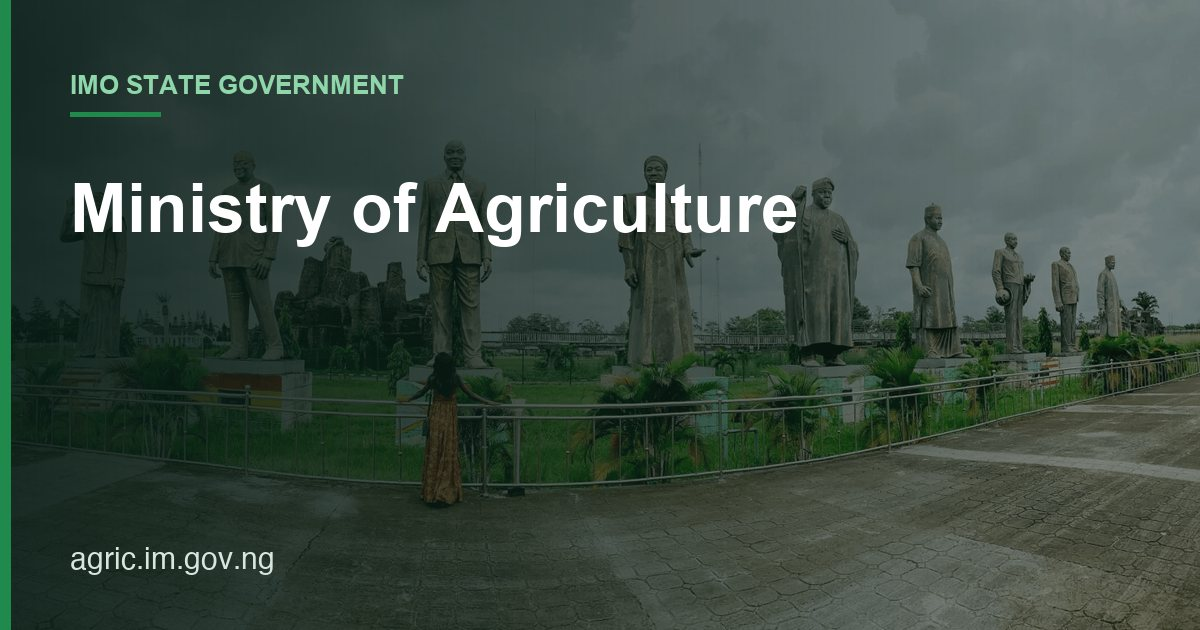
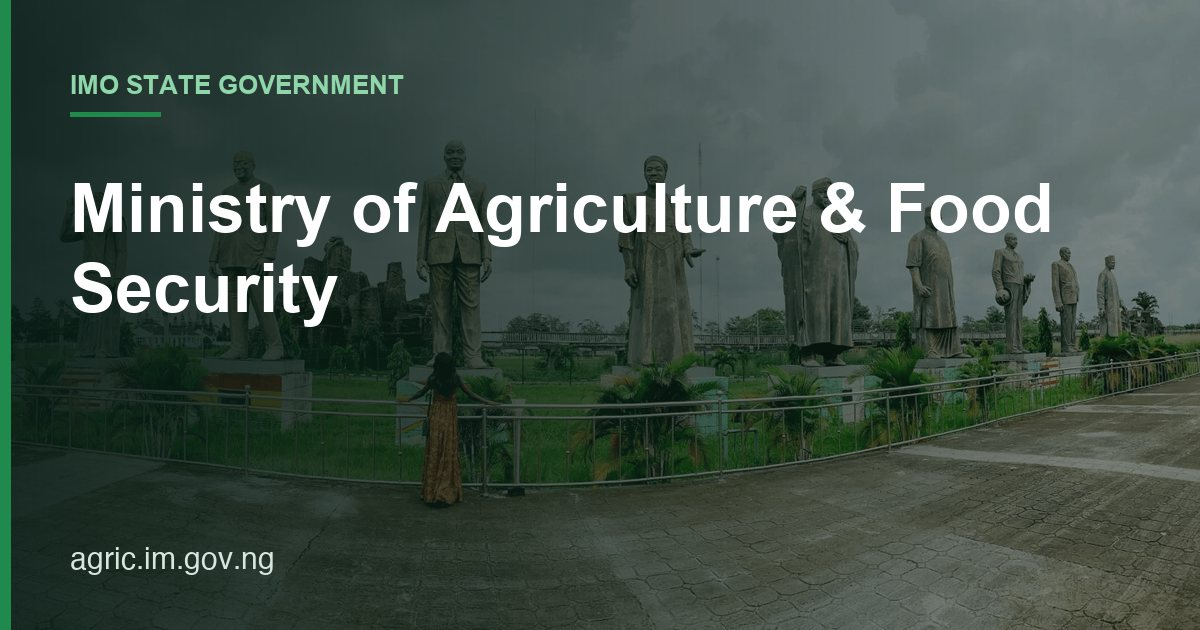
SEO sprint 3: titles and descriptions from real service content; correct official ministry name
- Home/about/services metadata written from the site's own content and services
- Use the official ministry names shown on each site; regenerate OG image
- Shorter page titles so keywords come first

Changed region(s): [[0.0617, 0.3921, 0.2775, 0.5127], [0.6783, 0.2714, 0.8942, 0.3921]]

diff --git a/src/lib/seo.ts b/src/lib/seo.ts
@@ -2,9 +2,9 @@ import type { Metadata } from "next";
 
 // Verified production domain (Vercel project domain). Override per environment if needed.
 export const SITE_URL = (process.env.NEXT_PUBLIC_SITE_URL || "https://agric.im.gov.ng").replace(/\/$/, "");
-export const SITE_NAME = "Ministry of Agriculture";
+export const SITE_NAME = "Ministry of Agriculture and Food Security";
 export const DEFAULT_DESCRIPTION =
-  "Official website of the Ministry of Agriculture, Imo State Government: services, departments, projects, news and events.";
+  "Official website of the Ministry of Agriculture and Food Security, Imo State Government: services, departments, projects, news and events.";
 export const OG_IMAGE_PATH = "/og-image.jpg";
 
 type Title = NonNullable<Metadata["title"]>;

diff --git a/src/app/page.tsx b/src/app/page.tsx
@@ -12,8 +12,8 @@ import { Project } from "../../lib/types";
 import { pageMetadata } from "@/lib/seo";
 
 export const metadata = pageMetadata({
-  title: { absolute: "Ministry of Agriculture | Imo State Government" },
-  description: "Official website of the Ministry of Agriculture, Imo State Government: services, departments, projects, news and events.",
+  title: { absolute: "Imo State Ministry of Agriculture and Food Security" },
+  description: "Imo State Ministry of Agriculture and Food Security: farmer registration, extension services, subsidies and grants, veterinary services and farmland allocation.",
   path: "/",
 });
 

diff --git a/src/app/services/page.tsx b/src/app/services/page.tsx
@@ -5,8 +5,8 @@ import ServicesSection from "./ServicesSection";
 import { pageMetadata } from "@/lib/seo";
 
 export const metadata = pageMetadata({
-  title: "Services",
-  description: "Services offered by the Ministry of Agriculture of the Imo State Government.",
+  title: "Farmer Registration and Subsidies",
+  description: "Agricultural extension, grant and subsidy applications, farmer registration, farmland allocation, veterinary services and agro-processing support in Imo State.",
   path: "/services",
 });
 

diff --git a/src/app/contact-us/page.tsx b/src/app/contact-us/page.tsx
@@ -9,7 +9,7 @@ import { pageMetadata } from "@/lib/seo";
 
 export const metadata = pageMetadata({
   title: "Contact Us",
-  description: "Contact the Ministry of Agriculture, Imo State Government: office location and ways to reach the ministry.",
+  description: "Contact the Ministry of Agriculture and Food Security, Imo State Government: office location and ways to reach the ministry.",
   path: "/contact-us",
 });
 

diff --git a/src/app/about-us/page.tsx b/src/app/about-us/page.tsx
@@ -11,7 +11,7 @@ import { pageMetadata } from "@/lib/seo";
 
 export const metadata = pageMetadata({
   title: "About Us",
-  description: "About the Ministry of Agriculture of the Imo State Government: who we are and what we do.",
+  description: "Mission, vision and objectives of the Imo State Ministry of Agriculture and Food Security: food security, farmer empowerment and agribusiness.",
   path: "/about-us",
 });
 

diff --git a/src/app/data/layout.tsx b/src/app/data/layout.tsx
@@ -2,7 +2,7 @@ import { pageMetadata } from "@/lib/seo";
 
 export const metadata = pageMetadata({
   title: "Data",
-  description: "Data and statistics published by the Ministry of Agriculture, Imo State Government.",
+  description: "Data and statistics published by the Ministry of Agriculture and Food Security, Imo State Government.",
   path: "/data",
 });
 

diff --git a/src/app/news/page.tsx b/src/app/news/page.tsx
@@ -8,7 +8,7 @@ import { pageMetadata } from "@/lib/seo";
 
 export const metadata = pageMetadata({
   title: "News",
-  description: "Latest news, announcements and updates from the Ministry of Agriculture, Imo State.",
+  description: "Latest news, announcements and updates from the Ministry of Agriculture and Food Security, Imo State.",
   path: "/news",
 });
 

diff --git a/src/app/departments/page.tsx b/src/app/departments/page.tsx
@@ -6,7 +6,7 @@ import { pageMetadata } from "@/lib/seo";
 
 export const metadata = pageMetadata({
   title: "Departments",
-  description: "Departments and units of the Ministry of Agriculture, Imo State Government.",
+  description: "Departments and units of the Ministry of Agriculture and Food Security, Imo State Government.",
   path: "/departments",
 });
 

diff --git a/src/app/media/page.tsx b/src/app/media/page.tsx
@@ -9,7 +9,7 @@ import { pageMetadata } from "@/lib/seo";
 
 export const metadata = pageMetadata({
   title: "Media Gallery",
-  description: "Photo and media gallery of the Ministry of Agriculture, Imo State Government.",
+  description: "Photo and media gallery of the Ministry of Agriculture and Food Security, Imo State Government.",
   path: "/media",
 });
 

diff --git a/src/app/projects/page.tsx b/src/app/projects/page.tsx
@@ -8,7 +8,7 @@ import { pageMetadata } from "@/lib/seo";
 
 export const metadata = pageMetadata({
   title: "Projects",
-  description: "Projects and programmes of the Ministry of Agriculture, Imo State Government.",
+  description: "Projects and programmes of the Ministry of Agriculture and Food Security, Imo State Government.",
   path: "/projects",
 });
 

diff --git a/src/app/events/page.tsx b/src/app/events/page.tsx
@@ -10,7 +10,7 @@ import { pageMetadata } from "@/lib/seo";
 
 export const metadata = pageMetadata({
   title: "Events",
-  description: "Events organised by the Ministry of Agriculture, Imo State Government.",
+  description: "Events organised by the Ministry of Agriculture and Food Security, Imo State Government.",
   path: "/events",
 });
 
